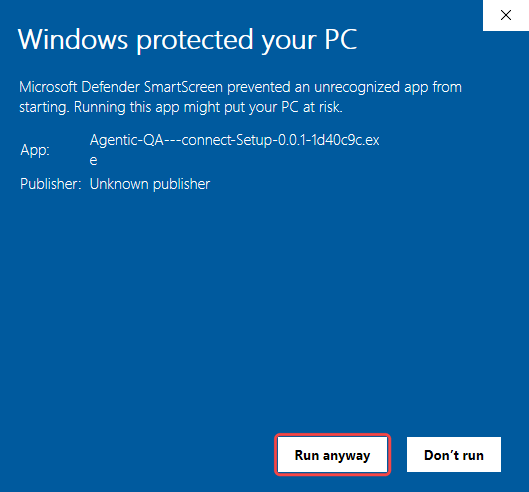
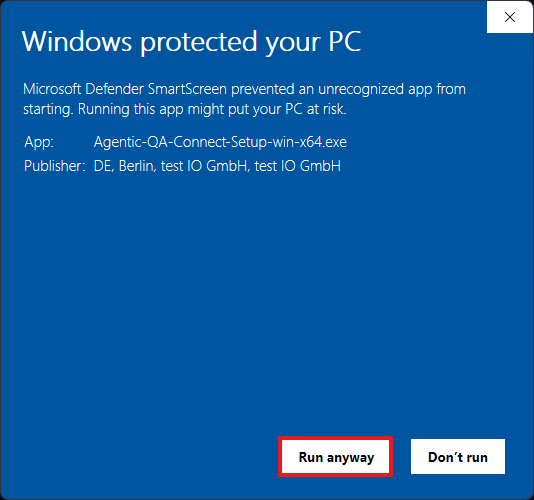
[NO-TICKET] Guide: Windows installer is signed; SmartScreen may still warn for a while
New SmartScreen screenshots with publisher test IO GmbH, and a note that the
warning goes away as the app gains reputation.

diff --git a/docs/guide/index.html b/docs/guide/index.html
@@ -851,24 +851,32 @@
 
           <h3>Windows: allow the installer to run</h3>
           <p>
-            The Windows installer isn't code-signed yet, so Windows SmartScreen is
-            likely to stop it with <em>"Windows protected your PC"</em>. Click
-            <strong>More info</strong>, then <strong>Run anyway</strong>.
+            The installer is signed by <strong>test IO GmbH</strong>. Windows SmartScreen
+            may still stop it with <em>"Windows protected your PC"</em>, because it
+            doesn't know the app yet. Click <strong>More info</strong>, check that the
+            publisher is <strong>test IO GmbH</strong>, then click
+            <strong>Run anyway</strong>.
           </p>
           <figure class="guide-figure">
             <img
               src="assets/images/windows-smartscreen.png"
               alt="Windows SmartScreen prompt Windows protected your PC, with the More info link highlighted"
             />
-            <figcaption>SmartScreen stops the installer because it isn't signed yet: click <strong>More info</strong>.</figcaption>
+            <figcaption>SmartScreen doesn't recognise the app yet: click <strong>More info</strong>.</figcaption>
           </figure>
           <figure class="guide-figure">
             <img
               src="assets/images/windows-smartscreen-run-anyway.png"
-              alt="The same SmartScreen prompt after More info: the installer's file name, Unknown publisher, and the highlighted Run anyway button"
+              alt="The same SmartScreen prompt after More info: app Agentic-QA-Connect-Setup-win-x64.exe, publisher test IO GmbH, and the highlighted Run anyway button"
             />
-            <figcaption>The prompt now names the installer: click <strong>Run anyway</strong>.</figcaption>
+            <figcaption>The publisher reads <strong>test IO GmbH</strong>: click <strong>Run anyway</strong>.</figcaption>
           </figure>
+          <div class="callout">
+            This warning is temporary. SmartScreen trusts an app once enough people
+            have installed it; as more teams install Agentic QA Connect, the warning
+            stops appearing and the installer starts right away. If the publisher is
+            anything other than <strong>test IO GmbH</strong>, don't run the file.
+          </div>
 
           <h3>Windows: run the installer</h3>
           <ol>
